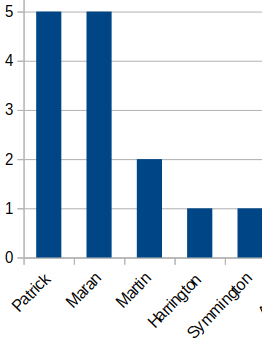
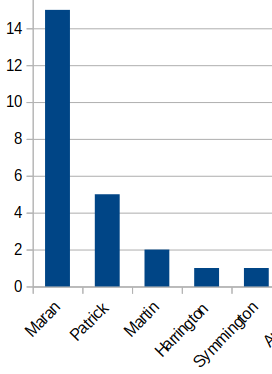
19th season - season update 11

Changed region(s): [[0.0, 0.0, 1.0, 0.9855], [0.9771, 0.8696, 1.0, 0.9275]]

diff --git a/index.html b/index.html
@@ -111,7 +111,7 @@
 		<div class="col-lg-5">
 			<br>
 			
-			Time in 1st (Best effort monitoring!) - as of Oct 21,2022<br>
+			Time in 1st (Best effort monitoring!) - as of Oct 31,2022<br>
 			<img src="./2022-timein1.png"><br>
 
 
@@ -319,7 +319,7 @@ First PPP of the Fantasy Year: <b> Jadrian (Stamkos) + Assists: Harrington (Kuch
 First SHP of the Fantasy Year: <b> Jadrian (Zibanejad) + Assists: Martin (Trouba) & Symmington (Miller) </b><br>
 First W of the Fantasy Year: <b> Harrington (Saros)<br></b>
 First SO of the Fantasy Year: <b> Harrington (Thompson)<br></b>
-First Missed SO of the Fantasy year: <b> <br></b>
+First Missed SO of the Fantasy year: <b> Patrick (Reimer)<br></b>
 First Goalie Pulled of the Fantasy Year: <b> Symmington (Fleury)</b> <br>
 First Major Penalty of the Fantasy Year: <b> Harrington (Borowiecki)<br></b>
 First Hat Trick of the Fantasy Year: <b> Mulvihill (McDavid)<br></b>
@@ -440,7 +440,7 @@ Season 19 - TBD</h1><br>
 
 
 
-
+<!--<a href="https://v2.waitwhile.com/l/mrbigdeals/list-view" target="_blank">mgd waitlist 416-292-3481 2115 Midland</a><br> -->
     
 
 
